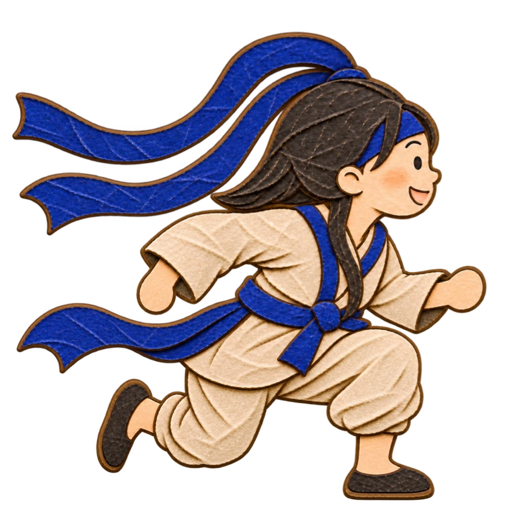
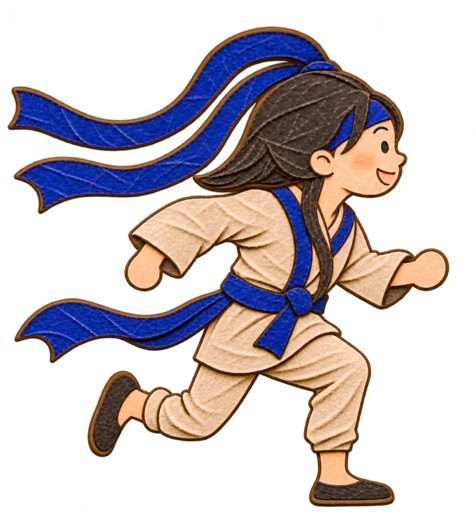
fix: #478 로딩 화면 묵이 달리기 그림 6장을 새 그림으로 교체

diff --git a/docs/VALIDATION.md b/docs/VALIDATION.md
@@ -5911,3 +5911,24 @@ PR-1(`feat/#507-gourd-rig-contract`) 위에서 Unity 6000.6.5f1 macOS batch Edit
   - EditMode `GameLoadingViewTests`: 캐릭터 목록을 불이·묵이·솔이로, 솔이 착지 그림을 더했다. 무작위로 나오는지는 이제 목록 전체와 비교한다.
   - PlayMode `GameLoadingSessionTests`: 뽑힌 캐릭터가 `LoadingArt`의 목록에 있는지로 바꿨다. 캐릭터가 늘어도 이 검사는 고치지 않아도 된다.
 - **미실행:** Play에서 여러 번 띄워 셋이 번갈아 나오는지 눈으로 확인, iPhone 실기기.
+
+### #478 로딩 화면: 묵이 그림 교체 — 2026-11-06
+
+- **무엇:** 사용자가 준 새 묵이 달리기 6장으로 바꿨다. 파일 이름·`.meta`가 그대로라 `LoadingArt.asset`의 연결과 값(0.14초, 착지 `{1, 4}`)은 바뀌지 않는다.
+- **그림:**
+  - 원본 1024×1024, 배경 투명. 여섯 장을 같은 사각형(전체를 합친 범위 + 8px, 824×886)으로 잘랐다.
+  - 긴 변 512로 줄여 476×512로 `MukRun01~06.png`를 덮어썼다. 머리띠 끈이 예전보다 위로 올라가 세로가 길어졌지만, 몸 크기는 화면에서 예전과 거의 같다.
+- **착지 그림:** 예전과 같은 순서다. 그림 1·4는 두 발이 다 뜨고, 그림 2·5에서 앞발이 땅에 닿는다.
+
+| 실행한 확인 | 결과 |
+| --- | --- |
+| 다시 가져오기 · 연결 (Editor 안) | **PASS**: 묵이 6장 476×512 한 크기, 사용 가능, 착지 1·4, 가져오기 설정 그대로(Sprite, 밉맵 없음, 최대 512) |
+| 화면 그려 보기 (Editor 안, 화면 밖) | **PASS**: 높이 182pt, 같은 자리, 6장 모두 "로딩중"과 겹치지 않음 |
+
+- **검사:** 코드·검사 변경 없음. 기존 EditMode `GameLoadingViewTests`의 그림 검사(6장·한 크기·0.84초·착지 1·4)가 새 그림에도 맞는다(NOT_RUN).
+
+### #478 로딩 화면 솔이 앞머리 — 2026-11-06
+
+- `LoadingArt`에 솔이의 달리기 그림별 앞머리 끝 위치를 넣었다. 달릴 때 앞머리 끝이 가볍게 뒤로 들렸다 내려오며, 100%에서 착지하면 0.14초에 걸쳐 제자리로 돌아온다.
+- Unity 6000.6.5f1에서 컴파일 오류 0건. EditMode `GameLoadingViewTests` 9개, PlayMode `GameLoadingViewFlowTests` 2개 통과.
+- Editor에서 390×844 로딩 화면을 렌더링해 솔이 6장 각각의 정지·최대 흔들림을 비교했다. 눈에 보이는 픽셀 변화는 앞머리 주변에 한정됐고, 100% 착지 이후 흔들림이 0으로 돌아오는 것을 별도로 확인했다. iPhone 실기기 미실행.
